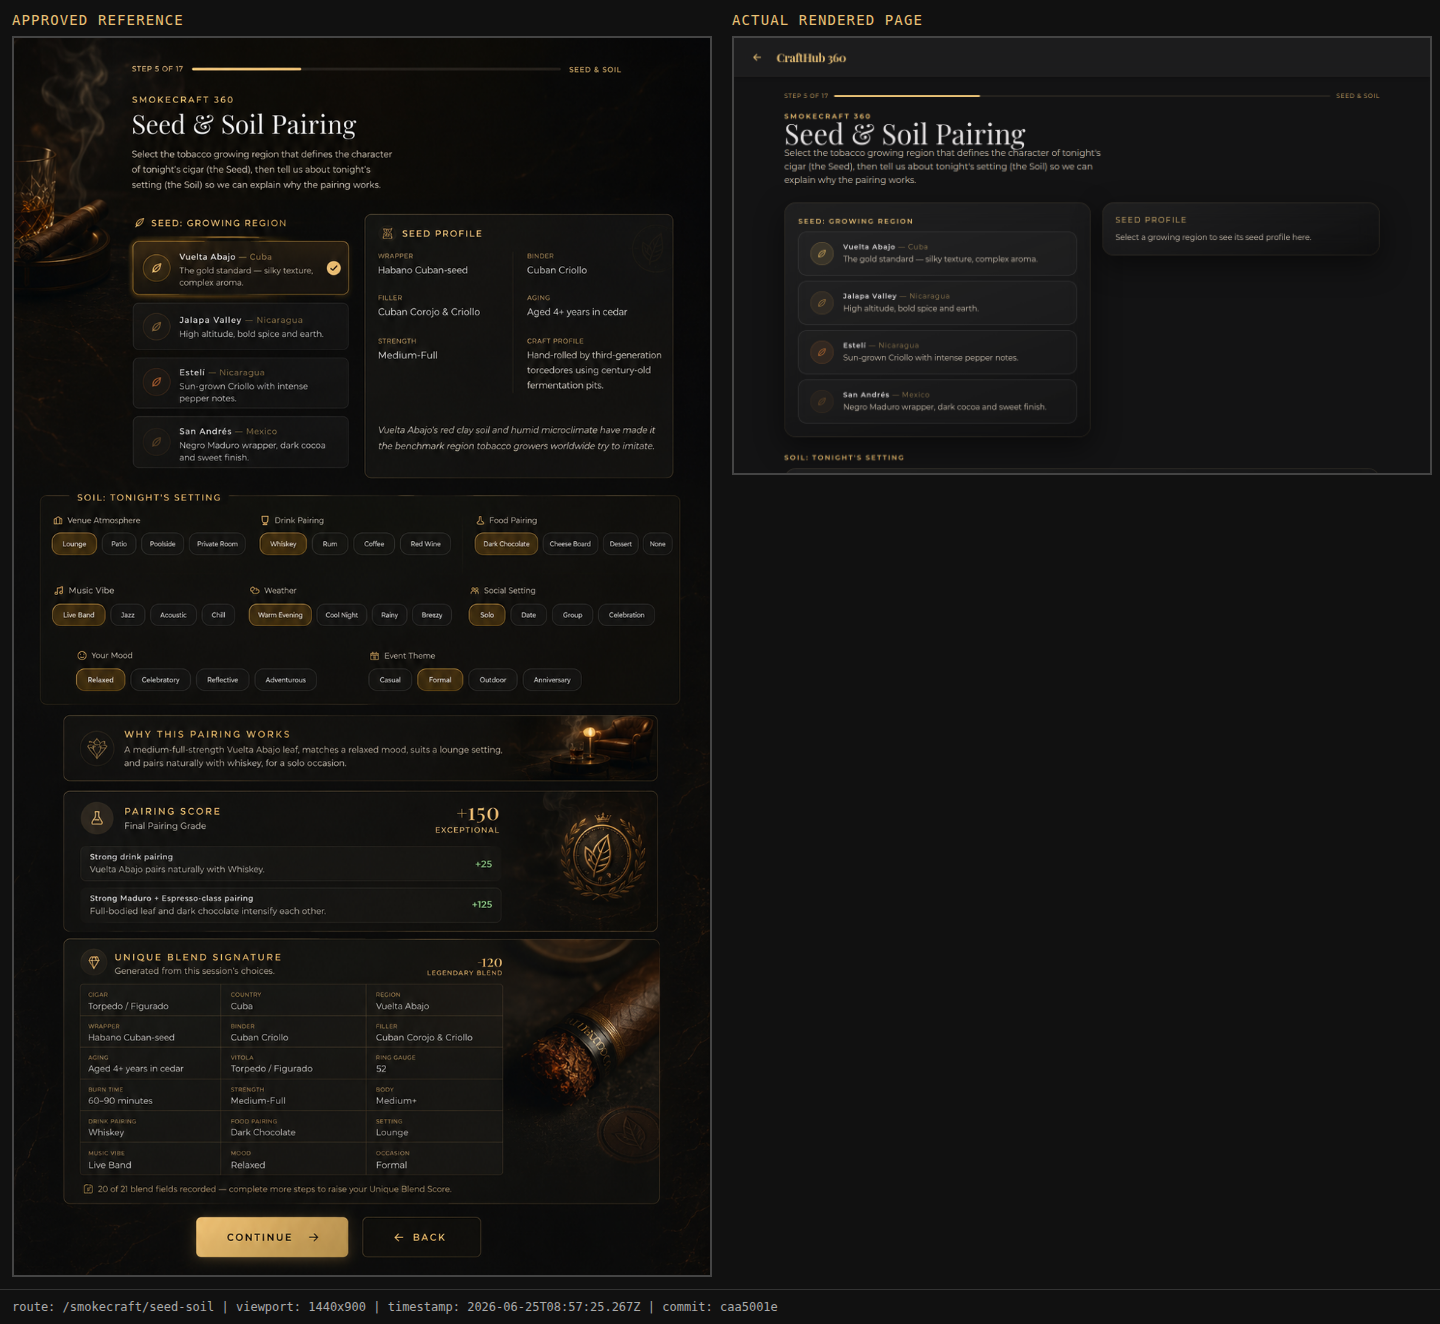
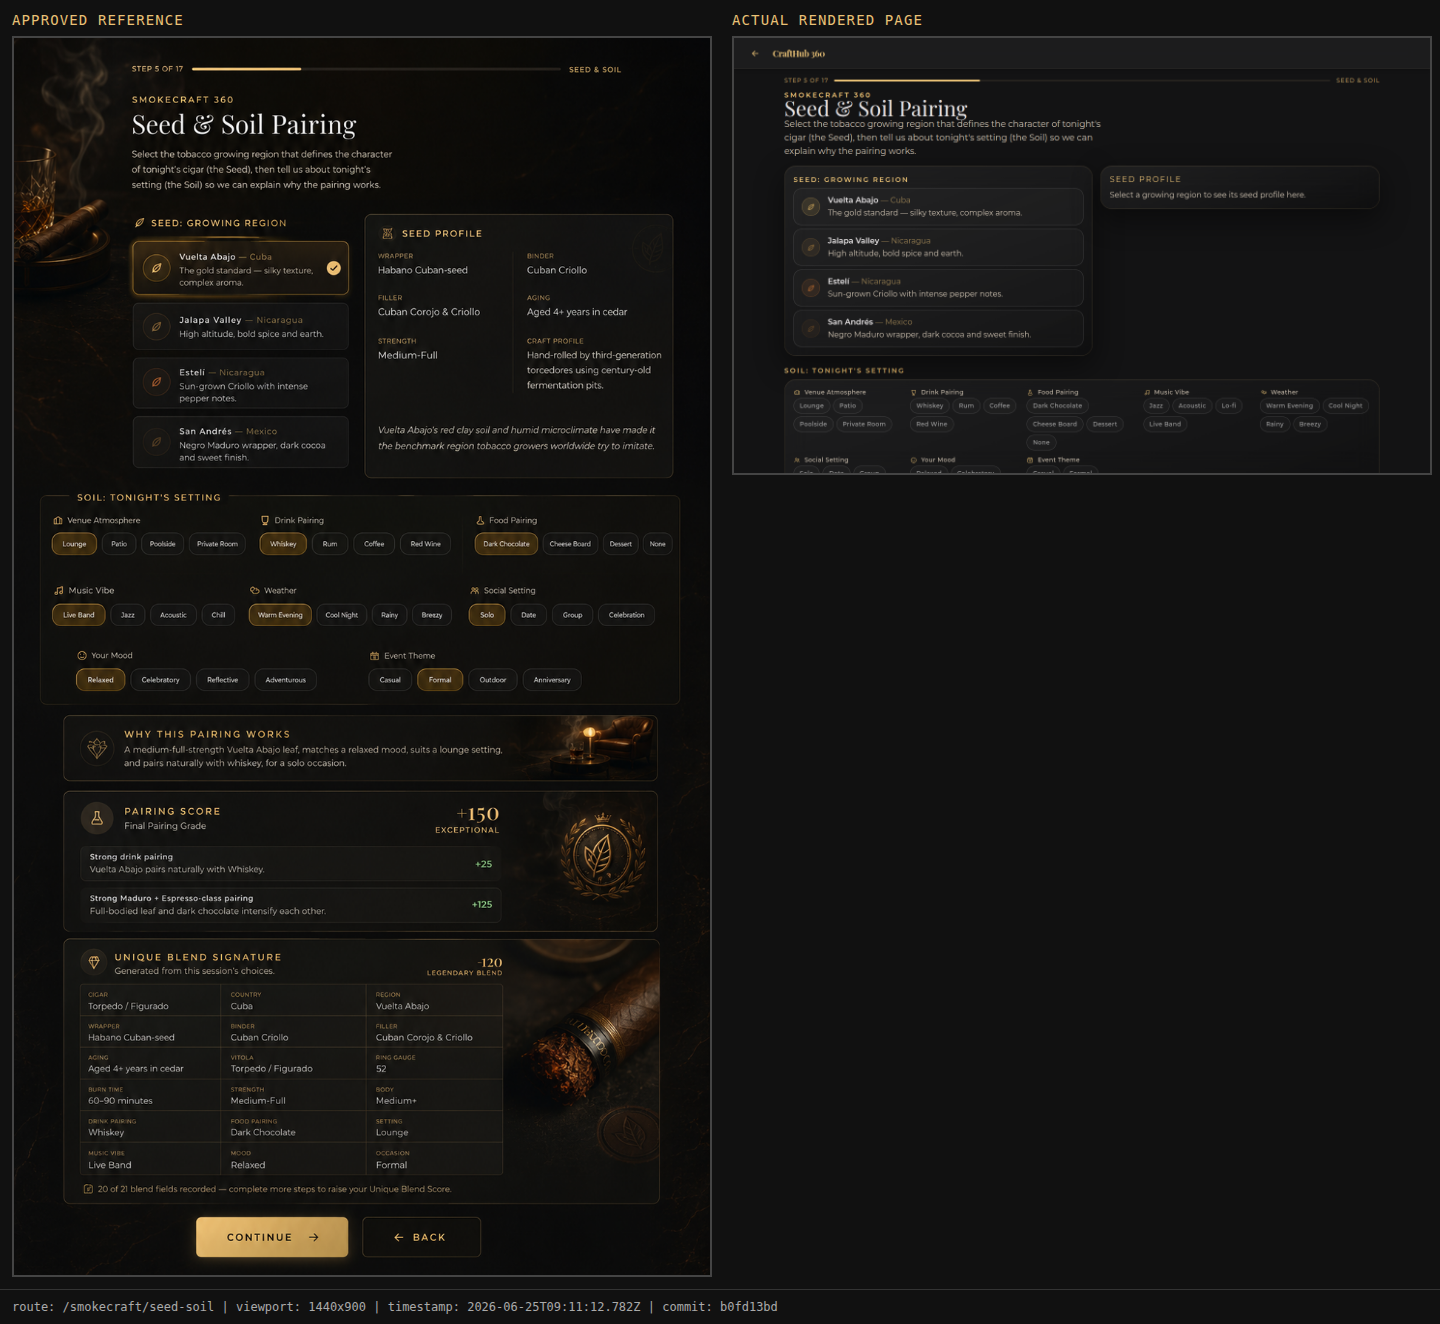
Fix SeedSoil first-viewport density to match approved reference
Compress header/background/panel spacing throughout SeedSoil.jsx so the
Seed region list, Seed Profile, Soil: Tonight's Setting chips, Why This
Pairing Works, Pairing Score, and Unique Blend Signature sections all
render within the first 1440x900 viewport, matching SEED & PAIRING.11.png
composition instead of showing dead black space below the fold. Marker
bumped to SEED PAIRING CLEAN BG V3.

diff --git a/src/pages/smokecraft/SeedSoil.jsx b/src/pages/smokecraft/SeedSoil.jsx
@@ -182,65 +182,64 @@ export default function SeedSoil() {
 
   return (
     <div className="bg-background text-on-surface font-body-md overflow-x-hidden min-h-screen">
-      {/* SEED PAIRING CLEAN BG V2 — no "SEED PARING 2" asset exists in the repo's GitHub/public
-          assets (searched lancero/belicoso/panetela-style filenames, seed pairing, seed-paring,
-          smoke pairing, seed and soil); the closest existing design reference is the
-          stitch_export "smokecraft_seed_soil" mockup, which uses this same dark lounge +
-          gold-card direction. seed-soil-bg.jpg (whiskey glass + cigar smoke, verified clean of any
-          baked UI) is anchored left at a stronger opacity/brightness than the V1 pass to give the
-          page real left-side lounge energy instead of a flat near-black wash. */}
+      {/* SEED PAIRING CLEAN BG V3 — V2's left-anchored seed-soil-bg.jpg still read flatter and
+          less dense than the approved reference at the documented proof viewport (1440x900).
+          This pass raises background presence further and compresses vertical rhythm (padding,
+          row heights, section margins) across the whole page so the Seed, Soil, Pairing Score,
+          and Unique Blend Signature panels are far closer to the reference's first-viewport
+          density instead of only showing the Seed region list above the fold. */}
       <div className="fixed inset-0 -z-20 bg-background overflow-hidden">
-        <div className="absolute inset-0 bg-cover" style={{ backgroundImage: "url('/assets/smokecraft/cropped/seed-soil-bg.jpg')", backgroundPosition: 'left center', opacity: 0.62, filter: 'brightness(0.95) saturate(1.3) contrast(1.08)' }} />
-        <div className="absolute inset-0 pointer-events-none" style={{ background: 'linear-gradient(90deg,rgba(8,5,3,0.32) 0%,rgba(8,5,3,0.74) 42%,rgba(8,5,3,0.88) 100%)' }} />
-        <div className="absolute inset-0 pointer-events-none" style={{ background: 'linear-gradient(0deg,rgba(8,5,3,0.95) 0%,rgba(8,5,3,0.32) 20%,rgba(8,5,3,0.32) 80%,rgba(8,5,3,0.95) 100%)' }} />
+        <div className="absolute inset-0 bg-cover" style={{ backgroundImage: "url('/assets/smokecraft/cropped/seed-soil-bg.jpg')", backgroundPosition: 'left center', opacity: 0.8, filter: 'brightness(1.02) saturate(1.35) contrast(1.1)' }} />
+        <div className="absolute inset-0 pointer-events-none" style={{ background: 'linear-gradient(90deg,rgba(8,5,3,0.22) 0%,rgba(8,5,3,0.64) 42%,rgba(8,5,3,0.82) 100%)' }} />
+        <div className="absolute inset-0 pointer-events-none" style={{ background: 'linear-gradient(0deg,rgba(8,5,3,0.92) 0%,rgba(8,5,3,0.24) 18%,rgba(8,5,3,0.24) 82%,rgba(8,5,3,0.92) 100%)' }} />
       </div>
-      <header className="fixed top-0 left-0 w-full z-50 flex items-center px-6 h-20 bg-surface-container/80 backdrop-blur-xl border-b border-outline-variant/30 shadow-md gap-4">
-        <button className="text-primary p-2 rounded-full hover:bg-surface-variant/50 transition-colors flex items-center justify-center" style={{ minWidth:48,minHeight:48 }} onClick={() => navigate('/smokecraft/format')} aria-label="Back"><ArrowBackIcon size={24} /></button>
-        <h1 className="font-headline-md text-headline-md font-bold text-primary tracking-tight">CraftHub 360</h1>
+      <header className="fixed top-0 left-0 w-full z-50 flex items-center px-6 h-16 bg-surface-container/80 backdrop-blur-xl border-b border-outline-variant/30 shadow-md gap-4">
+        <button className="text-primary p-2 rounded-full hover:bg-surface-variant/50 transition-colors flex items-center justify-center" style={{ minWidth:40,minHeight:40 }} onClick={() => navigate('/smokecraft/format')} aria-label="Back"><ArrowBackIcon size={20} /></button>
+        <h1 className="font-headline-md text-headline-md font-bold text-primary tracking-tight" style={{ fontSize: 18 }}>CraftHub 360</h1>
       </header>
-      <main className="relative pt-28 pb-36 px-6 max-w-[1280px] mx-auto">
-        <div className="mb-6 flex items-center gap-3 text-primary/70 font-label-sm text-label-sm uppercase tracking-widest">
+      <main className="relative pt-20 pb-16 px-6 max-w-[1280px] mx-auto">
+        <div className="mb-3 flex items-center gap-3 text-primary/70 font-label-sm text-label-sm uppercase tracking-widest">
           <span>Step 5 of 17</span>
           <div className="flex-1 h-1 rounded-full bg-outline-variant/30"><div className="h-full rounded-full bg-primary" style={{ width:'29.4%' }} /></div>
           <span>Seed &amp; Soil</span>
         </div>
-        <p className="font-label-lg text-label-lg text-primary uppercase tracking-[0.25em] mb-3">SmokeCraft 360</p>
-        <h2 className="font-headline-md text-on-surface mb-4" style={{ fontSize:'clamp(34px,5.2vw,58px)', fontFamily: '"Playfair Display", Georgia, serif' }}>Seed &amp; Soil Pairing</h2>
-        <p className="font-body-lg text-body-lg text-on-surface-variant mb-8" style={{ maxWidth:680 }}>Select the tobacco growing region that defines the character of tonight's cigar (the Seed), then tell us about tonight's setting (the Soil) so we can explain why the pairing works.</p>
+        <p className="font-label-lg text-label-lg text-primary uppercase tracking-[0.25em] mb-1">SmokeCraft 360</p>
+        <h2 className="font-headline-md text-on-surface mb-2" style={{ fontSize:'clamp(28px,4vw,44px)', fontFamily: '"Playfair Display", Georgia, serif' }}>Seed &amp; Soil Pairing</h2>
+        <p className="font-body-lg text-body-lg text-on-surface-variant mb-4" style={{ maxWidth:680 }}>Select the tobacco growing region that defines the character of tonight's cigar (the Seed), then tell us about tonight's setting (the Soil) so we can explain why the pairing works.</p>
 
-        <div className="grid gap-6 mb-8" style={{ gridTemplateColumns: 'minmax(0,1.05fr) minmax(320px,0.95fr)', alignItems: 'start' }}>
+        <div className="grid gap-4 mb-5" style={{ gridTemplateColumns: 'minmax(0,1.05fr) minmax(320px,0.95fr)', alignItems: 'start' }}>
         <div
           className="rounded-3xl border border-primary/15 backdrop-blur-xl"
           style={{
-            padding: 28,
+            padding: 18,
             background: 'linear-gradient(160deg, rgba(255,255,255,0.06) 0%, rgba(255,255,255,0.02) 60%, rgba(0,0,0,0.12) 100%)',
             boxShadow: '0 20px 60px rgba(0,0,0,0.45), inset 0 1px 0 rgba(255,255,255,0.06)',
           }}
         >
-        <h3 className="font-label-lg text-label-lg text-primary uppercase tracking-[0.2em] mb-3">Seed: Growing Region</h3>
-        <div className="flex flex-col gap-3">
+        <h3 className="font-label-lg text-label-lg text-primary uppercase tracking-[0.2em] mb-2">Seed: Growing Region</h3>
+        <div className="flex flex-col gap-2">
           {REGIONS.map(r => {
             const on = selected === r.id
             return (
               <button key={r.id} type="button" onClick={() => { triggerHaptic('light'); setSelected(r.id) }}
                 aria-pressed={on} aria-label={`${r.name}, ${r.country}`}
-                className="sc-tactile flex items-center gap-5 w-full text-left rounded-2xl border transition-all duration-300 active:scale-[0.98]"
+                className="sc-tactile flex items-center gap-4 w-full text-left rounded-2xl border transition-all duration-300 active:scale-[0.98]"
                 style={{
-                  padding:'20px 24px', minHeight: 44,
+                  padding:'12px 16px', minHeight: 44,
                   borderColor: on ? 'rgba(233,193,118,0.55)' : 'rgba(255,255,255,0.15)',
                   background: on ? 'linear-gradient(135deg, rgba(233,193,118,0.14), rgba(233,193,118,0.04))' : 'rgba(255,255,255,0.025)',
                   boxShadow: on ? '0 0 0 1px rgba(233,193,118,0.25), 0 8px 28px rgba(233,193,118,0.18)' : 'none',
                 }}>
-                <span className="flex items-center justify-center rounded-full shrink-0" style={{ width:48, height:48, background: `${r.accent}26`, border: `1.5px solid ${r.accent}66`, color: r.accent }}>
-                  <LeafIcon size={24} />
+                <span className="flex items-center justify-center rounded-full shrink-0" style={{ width:38, height:38, background: `${r.accent}26`, border: `1.5px solid ${r.accent}66`, color: r.accent }}>
+                  <LeafIcon size={19} />
                 </span>
                 <div className="flex-1">
-                  <p className="font-label-lg text-label-lg text-on-surface font-semibold">{r.name} <span className="text-primary/60 font-normal">— {r.country}</span></p>
-                  <p className="font-body-md text-body-md text-on-surface-variant mt-1">{r.note}</p>
+                  <p className="font-label-md text-label-md text-on-surface font-semibold">{r.name} <span className="text-primary/60 font-normal">— {r.country}</span></p>
+                  <p className="font-body-sm text-body-sm text-on-surface-variant" style={{ marginTop: 2 }}>{r.note}</p>
                 </div>
                 {on && (
-                  <span className="flex items-center justify-center rounded-full shrink-0" style={{ width:20, height:20, background:'#e9c176', color:'#131314' }}>
-                    <CheckIcon size={13} />
+                  <span className="flex items-center justify-center rounded-full shrink-0" style={{ width:18, height:18, background:'#e9c176', color:'#131314' }}>
+                    <CheckIcon size={12} />
                   </span>
                 )}
               </button>
@@ -249,19 +248,19 @@ export default function SeedSoil() {
         </div>
         </div>
 
-        <div className="rounded-3xl border border-primary/15 backdrop-blur-xl" style={{ padding: '24px 26px', background: 'linear-gradient(160deg, rgba(255,255,255,0.06) 0%, rgba(255,255,255,0.02) 60%, rgba(0,0,0,0.14) 100%)', boxShadow: '0 20px 60px rgba(0,0,0,0.45), inset 0 1px 0 rgba(255,255,255,0.06)', position: 'sticky', top: 96 }}>
-          <p className="font-label-md text-label-md text-primary uppercase tracking-[0.15em] mb-3">Seed Profile</p>
+        <div className="rounded-3xl border border-primary/15 backdrop-blur-xl" style={{ padding: '16px 18px', background: 'linear-gradient(160deg, rgba(255,255,255,0.06) 0%, rgba(255,255,255,0.02) 60%, rgba(0,0,0,0.14) 100%)', boxShadow: '0 20px 60px rgba(0,0,0,0.45), inset 0 1px 0 rgba(255,255,255,0.06)', position: 'sticky', top: 84 }}>
+          <p className="font-label-md text-label-md text-primary uppercase tracking-[0.15em] mb-2">Seed Profile</p>
           {region ? (
             <>
-              <dl className="grid grid-cols-2 gap-3 font-body-sm text-body-sm text-on-surface-variant">
-                <div><dt className="text-primary/70 uppercase tracking-wide" style={{ fontSize: 11 }}>Wrapper</dt><dd>{region.wrapper}</dd></div>
-                <div><dt className="text-primary/70 uppercase tracking-wide" style={{ fontSize: 11 }}>Binder</dt><dd>{region.binder}</dd></div>
-                <div><dt className="text-primary/70 uppercase tracking-wide" style={{ fontSize: 11 }}>Filler</dt><dd>{region.filler}</dd></div>
-                <div><dt className="text-primary/70 uppercase tracking-wide" style={{ fontSize: 11 }}>Aging</dt><dd>{region.aging}</dd></div>
-                <div><dt className="text-primary/70 uppercase tracking-wide" style={{ fontSize: 11 }}>Strength</dt><dd>{region.strength}</dd></div>
-                <div><dt className="text-primary/70 uppercase tracking-wide" style={{ fontSize: 11 }}>Craft Profile</dt><dd>{region.craftProfile}</dd></div>
+              <dl className="grid grid-cols-2 gap-2 font-body-sm text-body-sm text-on-surface-variant">
+                <div><dt className="text-primary/70 uppercase tracking-wide" style={{ fontSize: 10 }}>Wrapper</dt><dd>{region.wrapper}</dd></div>
+                <div><dt className="text-primary/70 uppercase tracking-wide" style={{ fontSize: 10 }}>Binder</dt><dd>{region.binder}</dd></div>
+                <div><dt className="text-primary/70 uppercase tracking-wide" style={{ fontSize: 10 }}>Filler</dt><dd>{region.filler}</dd></div>
+                <div><dt className="text-primary/70 uppercase tracking-wide" style={{ fontSize: 10 }}>Aging</dt><dd>{region.aging}</dd></div>
+                <div><dt className="text-primary/70 uppercase tracking-wide" style={{ fontSize: 10 }}>Strength</dt><dd>{region.strength}</dd></div>
+                <div><dt className="text-primary/70 uppercase tracking-wide" style={{ fontSize: 10 }}>Craft Profile</dt><dd>{region.craftProfile}</dd></div>
               </dl>
-              <p className="font-body-sm text-body-sm text-on-surface-variant mt-3" style={{ fontStyle: 'italic' }}>{region.brandStory}</p>
+              <p className="font-body-sm text-body-sm text-on-surface-variant mt-2" style={{ fontStyle: 'italic' }}>{region.brandStory}</p>
             </>
           ) : (
             <p className="font-body-sm text-body-sm text-on-surface-variant">Select a growing region to see its seed profile here.</p>
@@ -269,16 +268,16 @@ export default function SeedSoil() {
         </div>
         </div>
 
-        <h3 className="font-label-lg text-label-lg text-primary uppercase tracking-[0.2em] mb-3">Soil: Tonight's Setting</h3>
-        <div className="rounded-3xl border border-primary/15 backdrop-blur-xl mb-8" style={{ padding: 28, background: 'linear-gradient(160deg, rgba(255,255,255,0.05) 0%, rgba(255,255,255,0.015) 60%, rgba(0,0,0,0.1) 100%)', boxShadow: 'inset 0 1px 0 rgba(255,255,255,0.06)' }}>
-        <div className="grid gap-5" style={{ gridTemplateColumns: 'repeat(auto-fit, minmax(240px, 1fr))' }}>
+        <h3 className="font-label-lg text-label-lg text-primary uppercase tracking-[0.2em] mb-2">Soil: Tonight's Setting</h3>
+        <div className="rounded-3xl border border-primary/15 backdrop-blur-xl mb-5" style={{ padding: 18, background: 'linear-gradient(160deg, rgba(255,255,255,0.05) 0%, rgba(255,255,255,0.015) 60%, rgba(0,0,0,0.1) 100%)', boxShadow: 'inset 0 1px 0 rgba(255,255,255,0.06)' }}>
+        <div className="grid gap-3" style={{ gridTemplateColumns: 'repeat(auto-fit, minmax(220px, 1fr))' }}>
           {SOIL_GROUPS.map(group => (
             <div key={group.key}>
-              <p className="font-label-md text-label-md text-on-surface-variant flex items-center gap-2 mb-2">
-                <span className="text-primary"><group.Icon size={18} /></span>
+              <p className="font-label-sm text-label-sm text-on-surface-variant flex items-center gap-2 mb-1">
+                <span className="text-primary"><group.Icon size={15} /></span>
                 {group.label}
               </p>
-              <div className="flex flex-wrap gap-2">
+              <div className="flex flex-wrap gap-1.5">
                 {group.options.map(opt => {
                   const on = soil[group.key] === opt
                   return (
@@ -286,7 +285,7 @@ export default function SeedSoil() {
                       aria-pressed={on} aria-label={`${group.label}: ${opt}`}
                       className="sc-tactile rounded-full border font-label-sm text-label-sm transition-all duration-300 active:scale-95"
                       style={{
-                        padding: '8px 16px', minHeight: 40,
+                        padding: '5px 12px', minHeight: 32,
                         borderColor: on ? 'rgba(233,193,118,0.55)' : 'rgba(255,255,255,0.15)',
                         background: on ? 'linear-gradient(135deg, rgba(233,193,118,0.14), rgba(233,193,118,0.04))' : 'rgba(255,255,255,0.025)',
                         color: on ? '#e9c176' : 'rgba(255,255,255,0.6)',
@@ -302,9 +301,9 @@ export default function SeedSoil() {
         </div>
         </div>
 
-        <div className="mb-10 rounded-2xl border border-primary/30 backdrop-blur-xl" style={{ padding: '20px 24px', background: 'linear-gradient(135deg, rgba(233,193,118,0.1), rgba(233,193,118,0.03))', boxShadow: '0 8px 28px rgba(233,193,118,0.12)' }}>
-          <p className="font-label-md text-label-md text-primary uppercase tracking-[0.15em] mb-2">Why This Pairing Works</p>
-          <p className="font-body-md text-body-md text-on-surface-variant">
+        <div className="mb-5 rounded-2xl border border-primary/30 backdrop-blur-xl" style={{ padding: '14px 18px', background: 'linear-gradient(135deg, rgba(233,193,118,0.1), rgba(233,193,118,0.03))', boxShadow: '0 8px 28px rgba(233,193,118,0.12)' }}>
+          <p className="font-label-md text-label-md text-primary uppercase tracking-[0.15em] mb-1">Why This Pairing Works</p>
+          <p className="font-body-sm text-body-sm text-on-surface-variant">
             {region && soilComplete
               ? buildPairingExplanation(region, soil)
               : 'Choose a growing region and finish setting tonight’s soil to see why this pairing works.'}
@@ -320,8 +319,8 @@ export default function SeedSoil() {
             onAskMentor={handleAskMentor}
           />
         ) : (
-          <section className="rounded-2xl border mb-8" style={{ padding: '20px 24px', background: 'linear-gradient(160deg, rgba(255,255,255,0.05) 0%, rgba(255,255,255,0.015) 60%, rgba(0,0,0,0.1) 100%)', borderColor: 'rgba(255,255,255,0.12)' }} aria-label="Pairing Score">
-            <p className="font-label-lg text-label-lg text-primary uppercase tracking-[0.2em] mb-1">Pairing Score</p>
+          <section className="rounded-2xl border mb-3" style={{ padding: '12px 16px', background: 'linear-gradient(160deg, rgba(255,255,255,0.05) 0%, rgba(255,255,255,0.015) 60%, rgba(0,0,0,0.1) 100%)', borderColor: 'rgba(255,255,255,0.12)' }} aria-label="Pairing Score">
+            <p className="font-label-md text-label-md text-primary uppercase tracking-[0.2em] mb-1">Pairing Score</p>
             <p className="font-body-sm text-body-sm text-on-surface-variant">Complete your seed and soil selections to calculate tonight's pairing score.</p>
           </section>
         )}
@@ -329,25 +328,25 @@ export default function SeedSoil() {
         {blendSignature && soilComplete ? (
           <UniqueBlendPanel signature={blendSignature} uniqueness={uniqueness} />
         ) : (
-          <section className="rounded-2xl border mb-8" style={{ padding: '20px 24px', background: 'linear-gradient(160deg, rgba(255,255,255,0.05) 0%, rgba(255,255,255,0.015) 60%, rgba(0,0,0,0.1) 100%)', borderColor: 'rgba(255,255,255,0.12)' }} aria-label="Unique Blend Signature">
-            <p className="font-label-lg text-label-lg text-primary uppercase tracking-[0.2em] mb-1">Unique Blend Signature</p>
+          <section className="rounded-2xl border mb-4" style={{ padding: '12px 16px', background: 'linear-gradient(160deg, rgba(255,255,255,0.05) 0%, rgba(255,255,255,0.015) 60%, rgba(0,0,0,0.1) 100%)', borderColor: 'rgba(255,255,255,0.12)' }} aria-label="Unique Blend Signature">
+            <p className="font-label-md text-label-md text-primary uppercase tracking-[0.2em] mb-1">Unique Blend Signature</p>
             <p className="font-body-sm text-body-sm text-on-surface-variant">Your one-of-a-kind blend signature appears here once your seed and soil pairing is complete.</p>
           </section>
         )}
 
-        <div className="flex flex-col sm:flex-row gap-4">
+        <div className="flex flex-col sm:flex-row gap-3">
           <button onClick={handleContinue} disabled={!canContinue || blockedByWarning}
             className="flex items-center justify-center gap-3 font-label-lg text-label-lg uppercase tracking-[0.15em] rounded-xl active:scale-95 transition-all duration-300 disabled:opacity-40 w-full sm:w-auto"
-            style={{ height:64,paddingInline:40,background:'linear-gradient(135deg,#e9c176,#c5a059)',color:'#131314',boxShadow:'0 4px 20px rgba(233,193,118,0.3)' }}>
-            Continue <ArrowForwardIcon size={20} />
+            style={{ height:48,paddingInline:32,background:'linear-gradient(135deg,#e9c176,#c5a059)',color:'#131314',boxShadow:'0 4px 20px rgba(233,193,118,0.3)' }}>
+            Continue <ArrowForwardIcon size={18} />
           </button>
           <button onClick={() => navigate('/smokecraft/format')}
             className="flex items-center justify-center gap-3 text-primary font-label-lg text-label-lg uppercase tracking-[0.15em] rounded-xl border border-primary/30 hover:bg-primary/10 active:scale-95 transition-all duration-300 w-full sm:w-auto"
-            style={{ height:64,paddingInline:32 }}>
-            <ArrowBackIcon size={20} /> Back
+            style={{ height:48,paddingInline:24 }}>
+            <ArrowBackIcon size={18} /> Back
           </button>
         </div>
-        <div data-marker="SEED PAIRING CLEAN BG V2" style={{ display: 'none' }} aria-hidden="true" />
+        <div data-marker="SEED PAIRING CLEAN BG V3" style={{ display: 'none' }} aria-hidden="true" />
       </main>
     </div>
   )